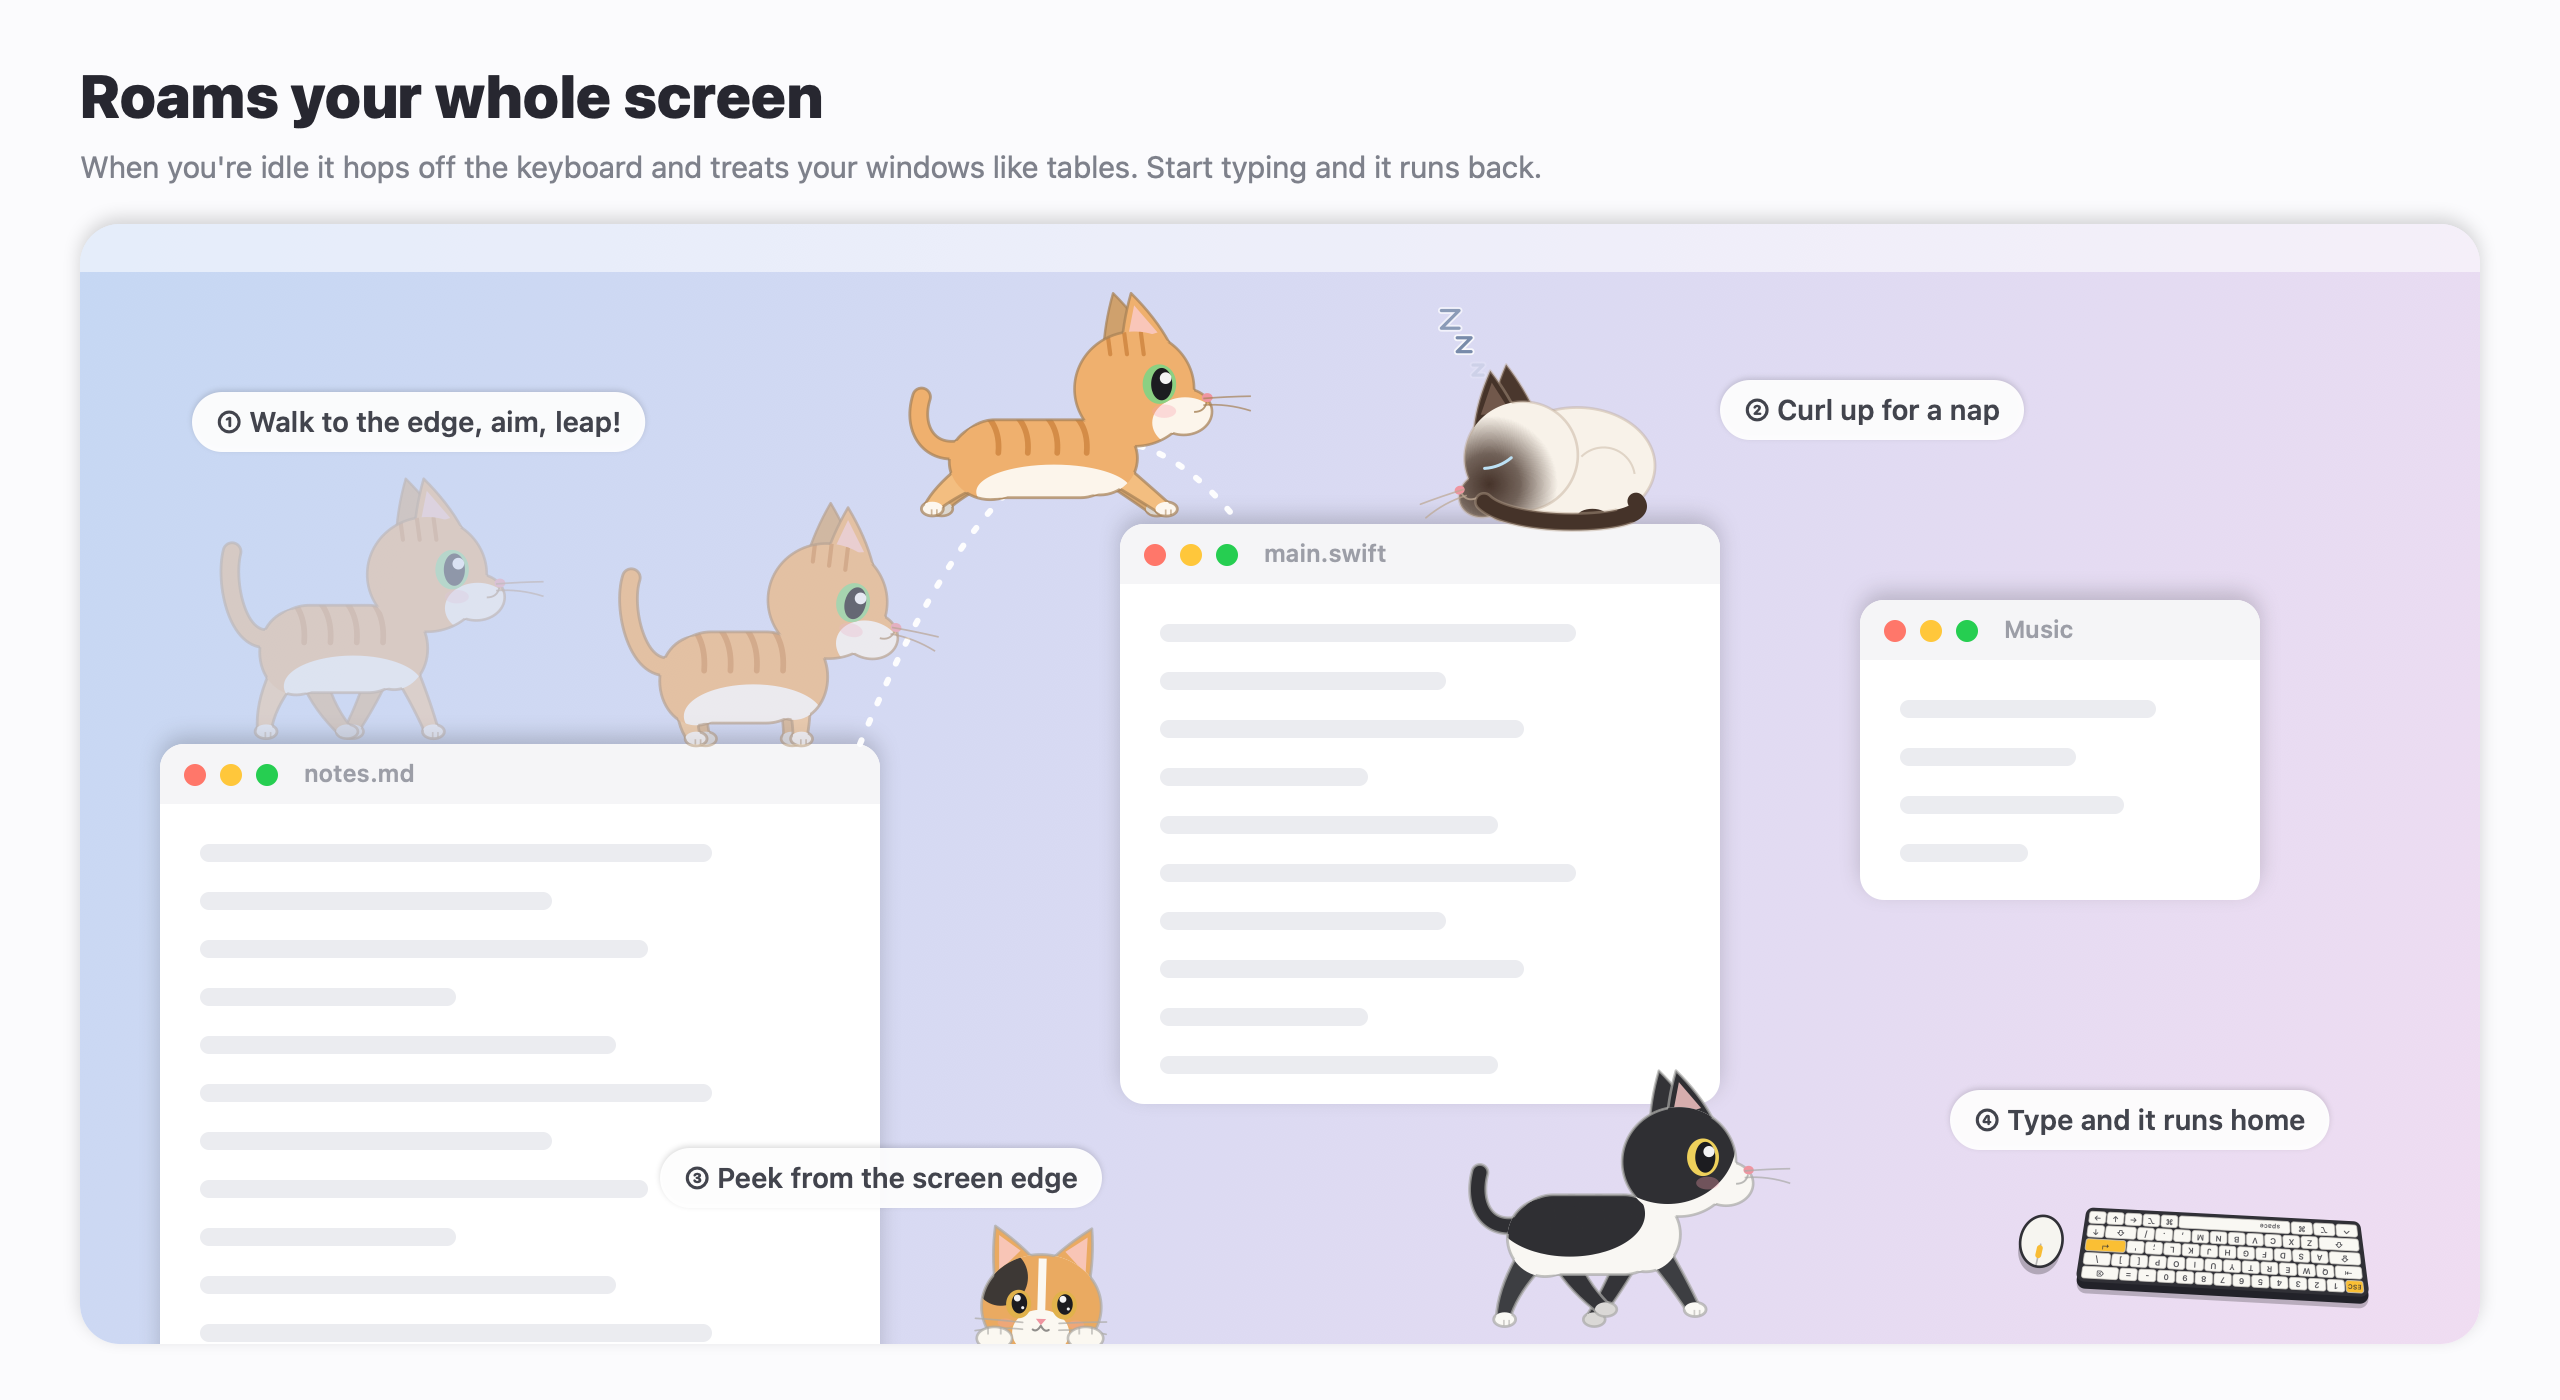
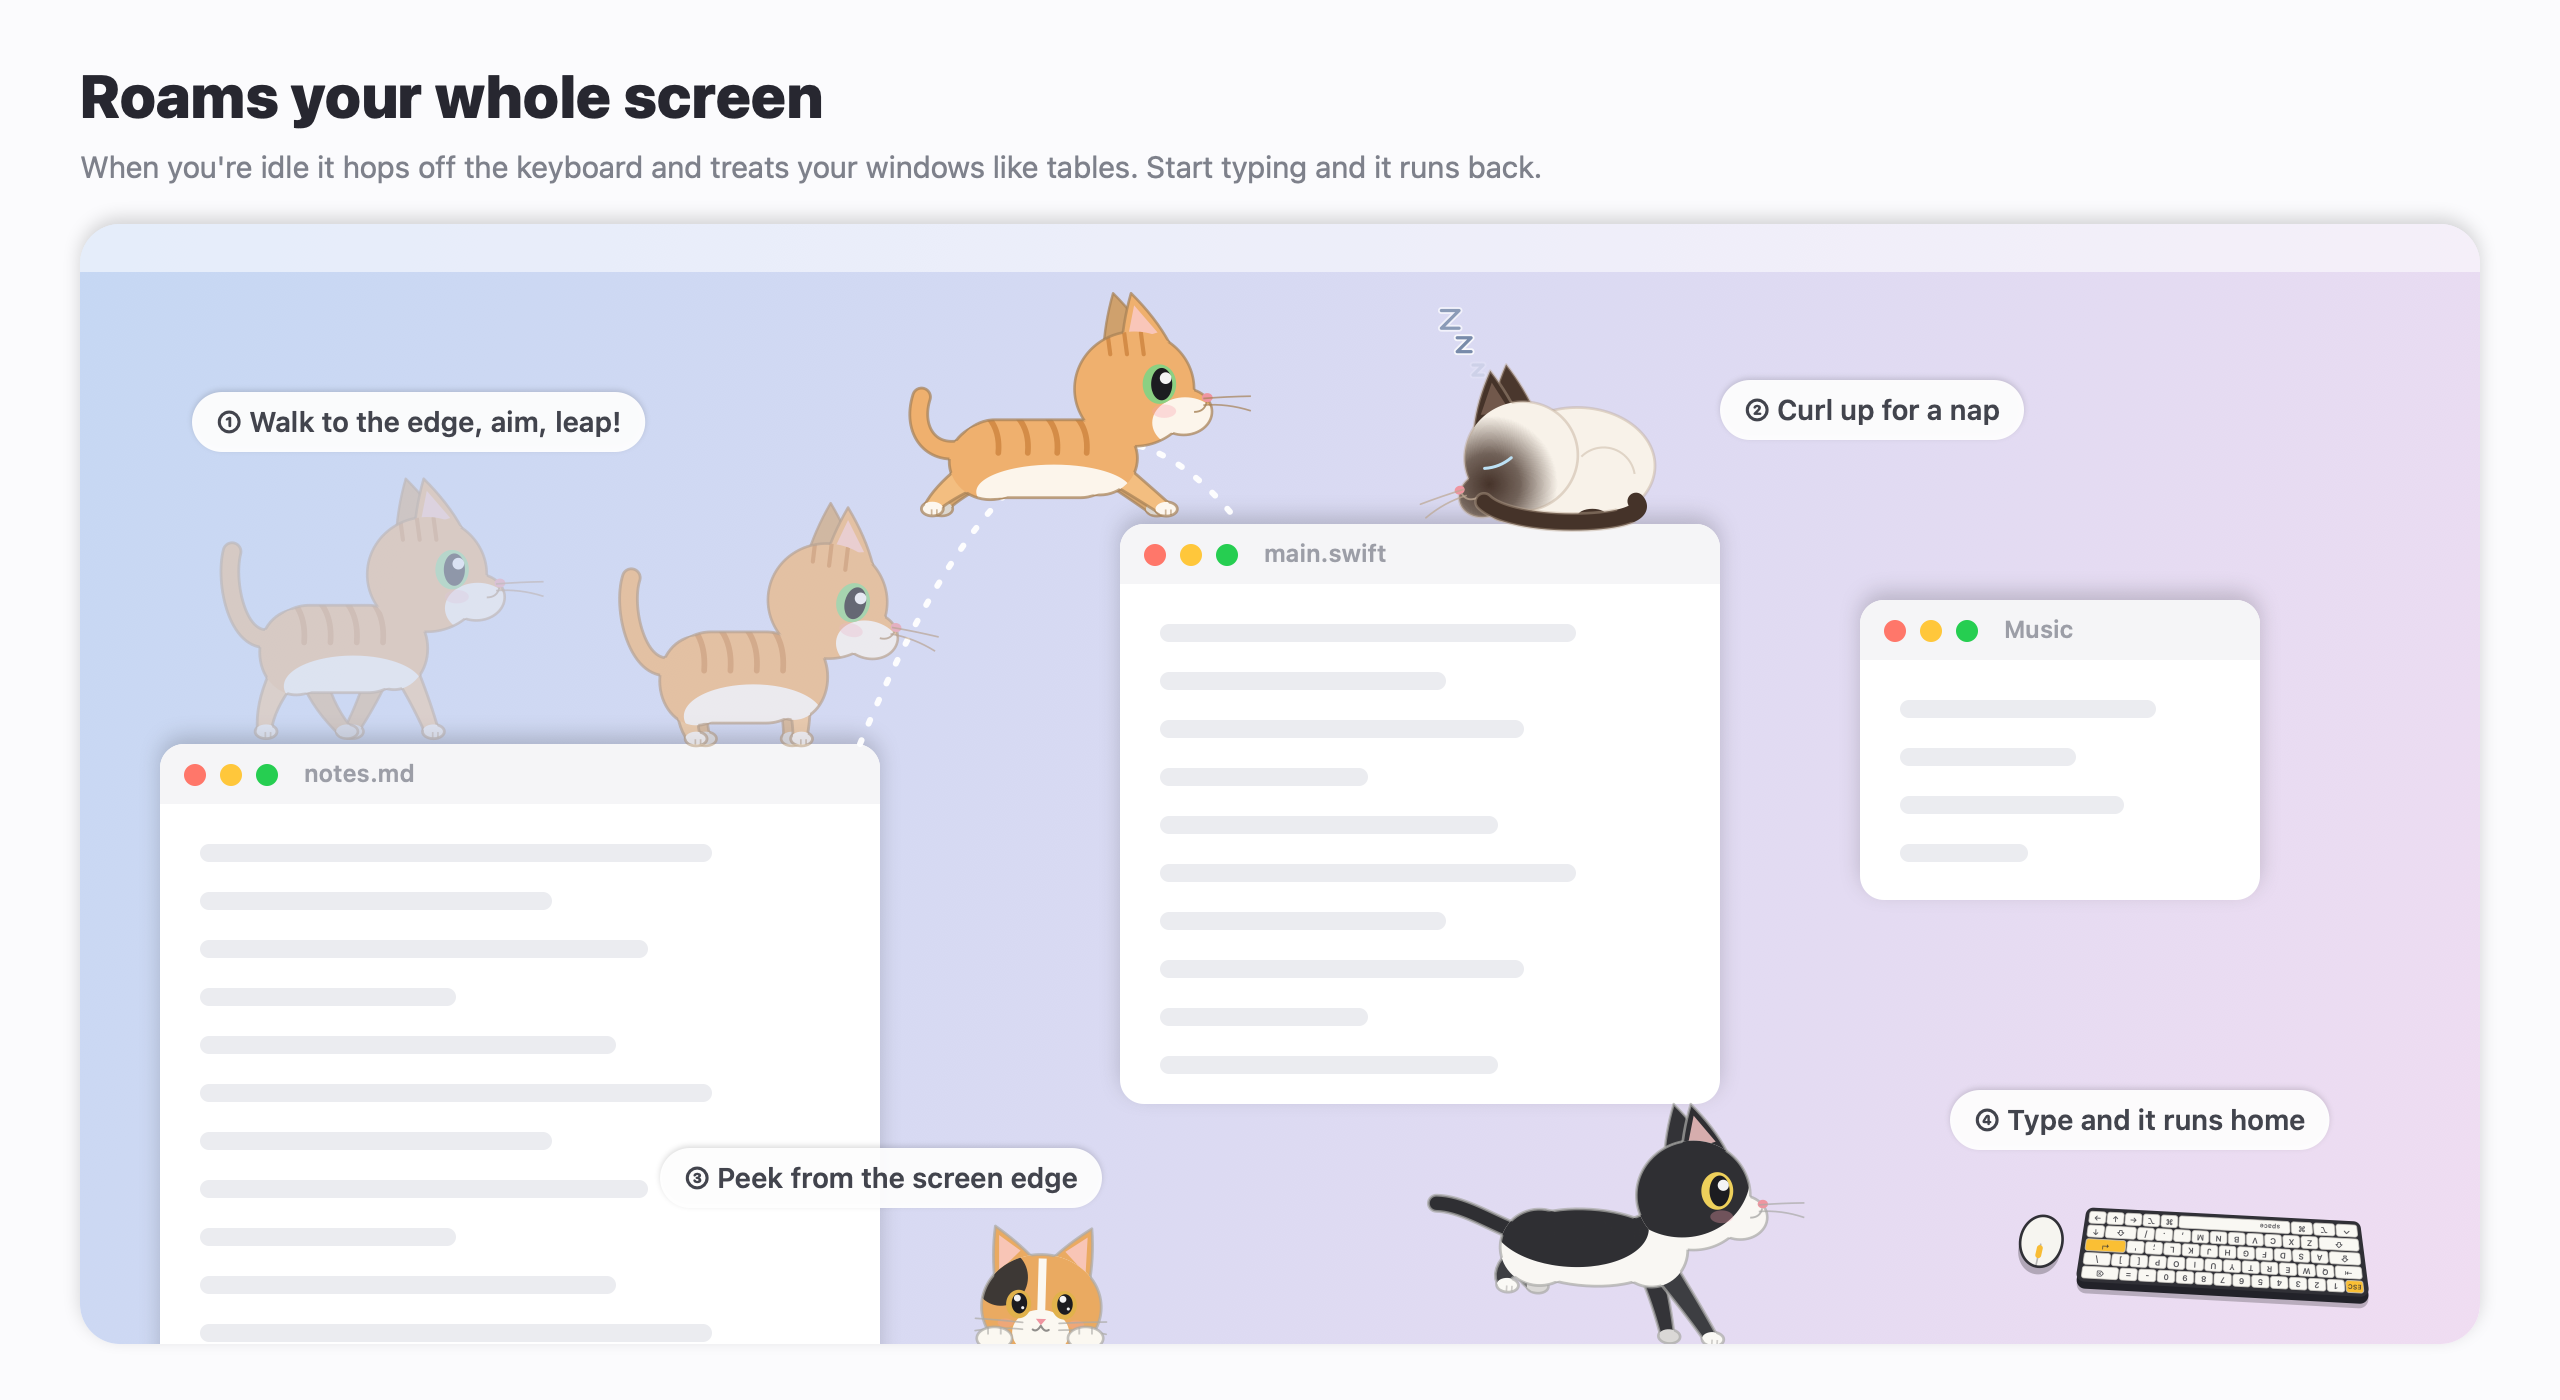
docs(readme): show the cheetah-style gallop and zoomies in the roaming section
- Render gallop.png / gallop.en.png with a six-frame gallop cycle marking
  the extended and gathered flight phases.
- Describe the gallop and zoomies in both READMEs and refresh the roaming
  art so the running cat uses the new gait.

Changed region(s): [[0.5625, 0.7679, 0.6875, 0.9521]]

diff --git a/Sources/ShowcaseArt.swift b/Sources/ShowcaseArt.swift
@@ -138,6 +138,56 @@ enum ShowcaseArt {
         write(renderHero(), to: dir + "/hero.png")
         write(renderRoam(english: false), to: dir + "/roam.png")
         write(renderRoam(english: true), to: dir + "/roam.en.png")
+        write(renderGallop(english: false), to: dir + "/gallop.png")
+        write(renderGallop(english: true), to: dir + "/gallop.en.png")
+    }
+
+    // MARK: Gallop
+
+    /// 飞奔分解图：一个步幅周期 6 帧，标出伸展腾空和收拢腾空
+    private static func renderGallop(english: Bool) -> CGImage? {
+        let width: CGFloat = 1280, height: CGFloat = 330
+        guard let ctx = makeContext(width: width, height: height) else { return nil }
+        CatSettings.shared.accessory = .none
+        PetLibrary.shared.select(PetLibrary.shared.pet(id: "orange-tabby"))
+        ctx.setFillColor(rgb(0xFAFAFC).cgColor)
+        ctx.fill(CGRect(x: 0, y: 0, width: width, height: height))
+        text(english ? "Gallops like a cheetah" : "像猎豹一样飞奔", at: CGPoint(x: 40, y: 26), size: 26, weight: .heavy,
+             color: rgb(0x1D1D24), in: ctx)
+        text(english ? "A rotary gallop with a flexing spine and two flight phases — head level, tail streaming back"
+                     : "旋转式飞奔：脊柱一伸一弓、两次腾空，头保持水平，尾巴往后拉直当平衡杆",
+             at: CGPoint(x: 40, y: 64), size: 14, weight: .regular, color: rgb(0x6B6E78), in: ctx)
+        let card = CGRect(x: 40, y: 98, width: width - 80, height: 212)
+        fillGradient(card, radius: 18, colors: (rgb(0xFDF1E2), rgb(0xF6E3EE)), in: ctx)
+        let ground = card.maxY - 44
+        ctx.setStrokeColor(NSColor(calibratedWhite: 0, alpha: 0.12).cgColor)
+        ctx.setLineWidth(1.5)
+        ctx.move(to: CGPoint(x: card.minX + 20, y: ground)); ctx.addLine(to: CGPoint(x: card.maxX - 20, y: ground))
+        ctx.strokePath()
+        let frames = 6
+        let step = (card.width - 40) / CGFloat(frames)
+        for i in 0..<frames {
+            let feet = CGPoint(x: card.minX + 20 + step * (CGFloat(i) + 0.5), y: ground)
+            let pose = CatRenderer.WalkerPose(pose: .run, phase: CGFloat(i) / CGFloat(frames) * 2 * .pi, facing: 1,
+                                              air: 0, time: 0.3, blink: false)
+            ctx.saveGState()
+            ctx.translateBy(x: feet.x - CatRenderer.walkerFeet.x * 0.9, y: feet.y - CatRenderer.walkerFeet.y * 0.9)
+            ctx.scaleBy(x: 0.9, y: 0.9)
+            CatRenderer.drawWalker(in: ctx, pose: pose)
+            ctx.restoreGState()
+            let label: String? = i == 0 ? (english ? "extended flight" : "伸展腾空")
+                : (i == 3 ? (english ? "gathered flight" : "收拢腾空") : nil)
+            if let label {
+                let font = NSFont.systemFont(ofSize: 13, weight: .semibold)
+                let w = (label as NSString).size(withAttributes: [.font: font]).width + 20
+                let r = CGRect(x: feet.x - w / 2, y: ground + 12, width: w, height: 24)
+                ctx.setFillColor(NSColor(calibratedWhite: 1, alpha: 0.95).cgColor)
+                ctx.addPath(CGPath(roundedRect: r, cornerWidth: 12, cornerHeight: 12, transform: nil))
+                ctx.fillPath()
+                text(label, at: CGPoint(x: r.minX + 10, y: r.minY + 4), size: 13, weight: .semibold, color: rgb(0x33343C), in: ctx)
+            }
+        }
+        return ctx.makeImage()
     }
 
     private static func write(_ image: CGImage?, to path: String) {

diff --git a/README.md b/README.md
@@ -23,7 +23,7 @@
 | | 功能 | 说明 |
 |---|---|---|
 | 🎧 | **跟着鼓点跳舞** | 音乐播放器一出声就戴上耳机；猫身后立起一面 LED 频谱墙。用系统音频 tap（macOS 14.2+）实时检测鼓点，舞步按输出设备延迟对齐到你听到的拍子。强节奏多点头，舒缓的歌慢慢摇。 |
-| 🐾 | **满屏漫游** | 闲下来就跳下键盘满屏溜达：把窗口顶当桌子跳来跳去，躲在屏幕边只露脑袋偷看，找个地方蜷成一团打盹；你一打字就跑回来。详见[下文](#-满屏漫游)。 |
+| 🐾 | **满屏漫游** | 闲下来就跳下键盘满屏溜达：像猎豹一样飞奔，把窗口顶当桌子跳来跳去，躲在屏幕边只露脑袋偷看，找个地方蜷成一团打盹；你一打字就跑回来。详见[下文](#-满屏漫游)。 |
 | 🤖 | **Claude Code 联动** | 一键写入 hook。气泡逐会话显示「项目 · 动作 · 耗时」，多个会话同时在忙也分得清；等你批准时举爪挥手，任务完成撒彩带。 |
 | ⌨ | **Codex 联动** | 一键写入 `~/.codex/hooks.json`（在 Codex 里 `/hooks` 信任后生效）。和 Claude Code 共用一个气泡：Codex 会话用蓝色转圈标出，等你批准、按 Esc 打断、完成都能同步。 |
 | 🎙 | **会议模式** | 开麦自动戴耳麦，开麦时打字太猛会「嘘」你，开摄像头前先洗把脸。 |
@@ -46,6 +46,12 @@
 - **窗口当跳台**：桌面上的窗口就是一张张桌子。它会在窗口顶上走，走到桌边蹲下瞄准，跨过缝隙跳到另一扇窗口上；出门时会直接从座位跳上旁边的窗口，回家时顺着窗口一路跳回去。窗口挪动时它跟着动，窗口关掉它会掉下来。窗口上方得留点空间它才站得上去，最大化、贴着菜单栏的窗口不算。
 - **边上偷看**：躲到屏幕底边或侧边外面，只露出脑袋和两只扒着边的爪子，东张西望。多屏时不会画到隔壁屏幕上。
 - **蜷成一团打盹**：找个地方趴下慢慢蜷起来，最爱窗口顶上的高处，睡着时会呼吸起伏、冒 Zzz。闲得越久越容易犯困。
+- **像猎豹一样飞奔**：跑起来是旋转式飞奔，脊柱一伸一弓、一个步幅里两次腾空，头保持水平、尾巴往后拉直当平衡杆；溜达时还会突然发疯狂奔一段，跑到地方压低身子急刹。
+
+<p align="center">
+  <img src="assets/coolcat/gallop.png" alt="飞奔分解：伸展腾空、收拢腾空" />
+</p>
+
 - **随叫随回**：你一打字它就跑回键盘，睡着的会一激灵醒来再跑；开会、吃小鱼干时不出门；Claude Code / Codex 在等你批准时会跑回来提醒你。离开超过 10 分钟就不再出门，安心在座位上睡觉。
 
 「设置 → 互动」里可以关掉漫游，也有「出发」「偷看」「跳台」「打盹」几个预览按钮，点一下马上看效果。
@@ -111,7 +117,7 @@ swiftc -swift-version 5 -O -framework AppKit -framework SwiftUI -framework IOKit
 /tmp/coolcat --render-readme-art assets/coolcat      # README 头图和功能卡片
 /tmp/coolcat --render-dance-preview /tmp/dance.png   # 舞步
 /tmp/coolcat --render-bond-preview /tmp/bond.png     # 装扮、礼物、蹭蹭
-/tmp/coolcat --render-walk-preview /tmp/walk.png     # 漫游时的侧身小猫（COOLCAT_WALK_SET=nap 看打盹）
+/tmp/coolcat --render-walk-preview /tmp/walk.png     # 漫游时的侧身小猫（COOLCAT_WALK_SET=nap 看打盹，=run 看飞奔一个周期）
 ```
 
 漫游可以用启动参数直接触发：`open -a CoolCat --args --roam-now`（出门）、`--roam-peek`（偷看）、`--roam-hop`（窗口跳台）、`--roam-nap`（打盹），加 `--roam-log <文件>` 每半秒记一行漫游状态。

diff --git a/README.en.md b/README.en.md
@@ -21,7 +21,7 @@ A little cat that lives in the corner of your Mac desktop. It types along with y
 </p>
 
 - 🎧 **Dances to your music** — headphones on when a music player is playing, a vertical LED spectrum wall behind the cat, real beat tracking via a system audio tap (macOS 14.2+) aligned to your output latency. Strong beats get head-bobs, calm songs get slow sways.
-- 🐾 **Roams your whole screen** — when you're idle it hops off the keyboard, treats window tops like tables to jump between, peeks from screen edges, curls up for naps, and runs back as soon as you type ([more](#-roaming)).
+- 🐾 **Roams your whole screen** — when you're idle it hops off the keyboard, gallops around like a cheetah, treats window tops like tables to jump between, peeks from screen edges, curls up for naps, and runs back as soon as you type ([more](#-roaming)).
 - 🤖 **Claude Code integration** — one-click hooks; a bubble shows *project · action · elapsed* per session, the cat waves when a session needs your approval and throws confetti when it is done.
 - ⌨ **Codex integration** — one-click hooks in `~/.codex/hooks.json` (trust them once via `/hooks` in Codex); Codex sessions share the bubble with Claude Code, marked by a blue spinner.
 - 🎙 **Meeting mode** — headset when the mic is on, a "shh" when you type too loudly, a quick face wash before the camera turns on.
@@ -43,6 +43,12 @@ After 30 seconds without typing the cat leaves its keyboard and wanders around i
 - **Windows are tables** — it walks along window tops, crouches at the edge to aim and leaps across the gap to the next window. It can jump straight from its seat onto a nearby window and hops window to window on the way home. If a window moves it rides along; if the window closes it falls. A window needs some room above it to stand on (maximized windows pinned to the menu bar don't count).
 - **Peeking** — it hides past the bottom or side edge of the screen with only its head and two paws showing, clipped so it never spills onto another display.
 - **Naps** — it curls up into a ball (high window tops are its favourite), breathing slowly with floating Zzz. The longer you're idle, the sleepier it gets.
+- **Gallops like a cheetah** — running is a rotary gallop with a flexing spine and two flight phases per stride, head level and tail streaming back; every now and then it gets the zoomies and sprints off, braking with a crouch when it arrives.
+
+<p align="center">
+  <img src="assets/coolcat/gallop.en.png" alt="Gallop cycle: extended and gathered flight" />
+</p>
+
 - **Comes back when needed** — typing sends it running home (a napping cat wakes with a start); it stays home during meetings or snacks and comes back to remind you when Claude Code / Codex is waiting for your approval. After 10 minutes away from the keyboard it stops wandering and naps at its seat.
 
 Turn roaming off under *Settings → Interaction*, where preview buttons trigger a walk, a peek, window hops or a nap on demand.
